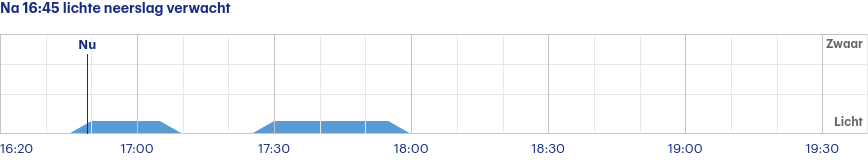
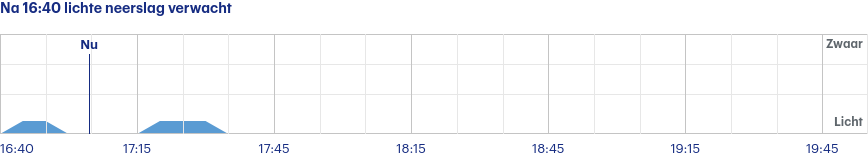
Latest scraping buienradar: Thu Aug 24 15:00:36 UTC 2023

diff --git a/scrapes/buienradar/buienradar-jette-3-uur.md b/scrapes/buienradar/buienradar-jette-3-uur.md
@@ -1,4 +1,4 @@
-Na 16:45 lichte neerslag verwacht
+Na 16:40 lichte neerslag verwacht
 
 ![](buienradar-jette-3-uur.png)
 
